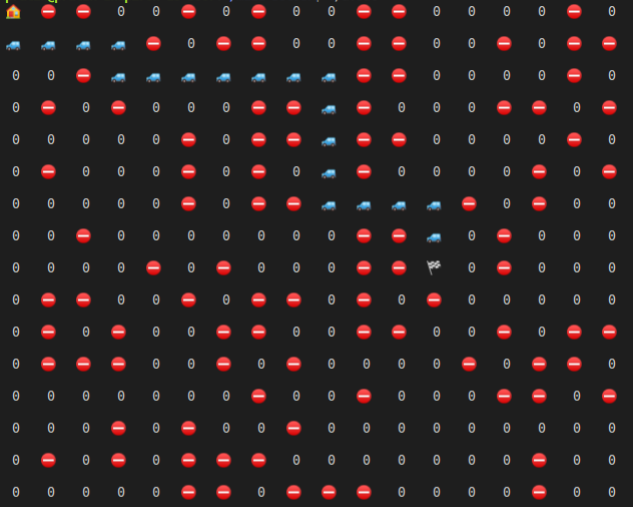
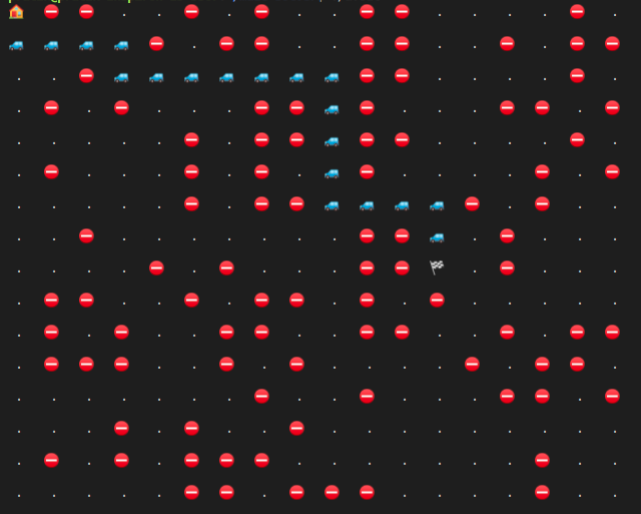
clean output

diff --git a/astar.cpp b/astar.cpp
@@ -141,7 +141,7 @@ string CellString(State cell) {
     case State::kPath: return "🚙   ";
     case State::kStart: return "🏠   ";
     case State::kFinish: return "🏁   ";
-    default: return " 0   "; 
+    default: return " .   "; 
   }
 }
 
